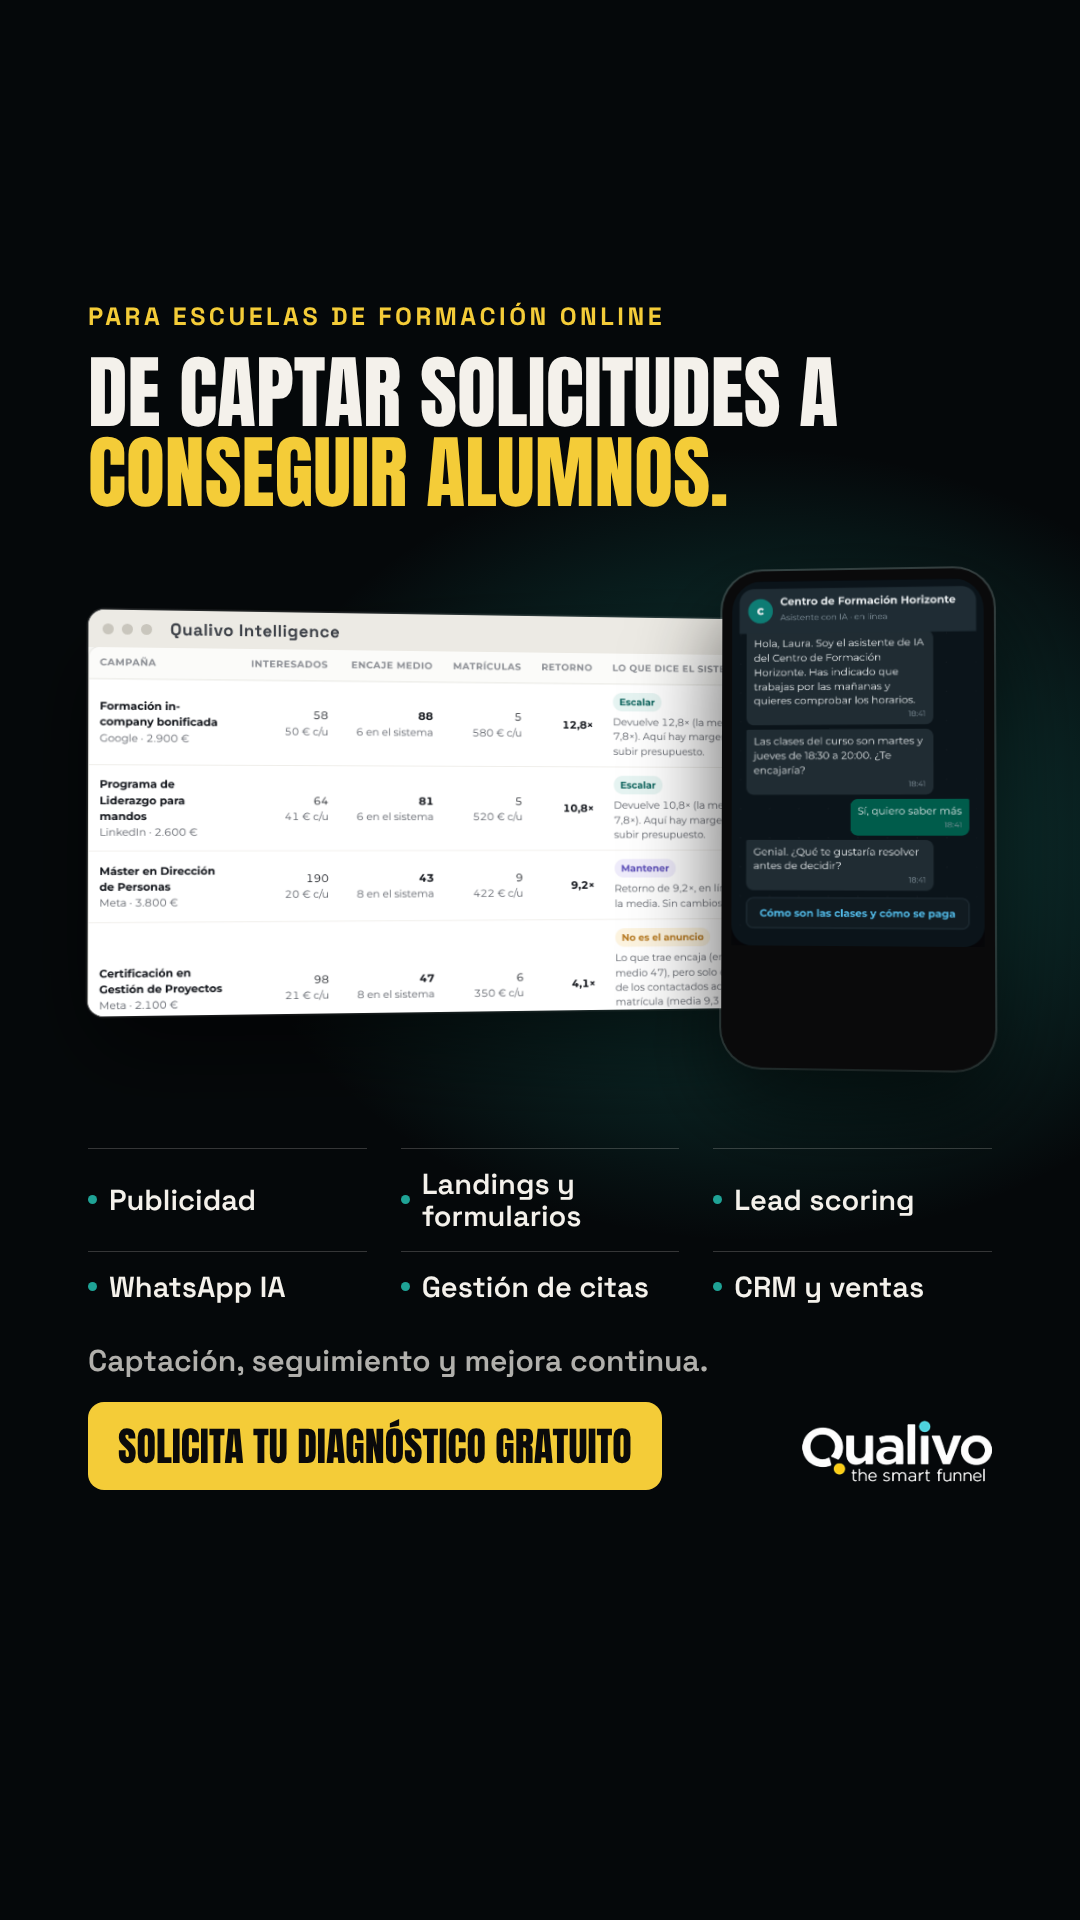
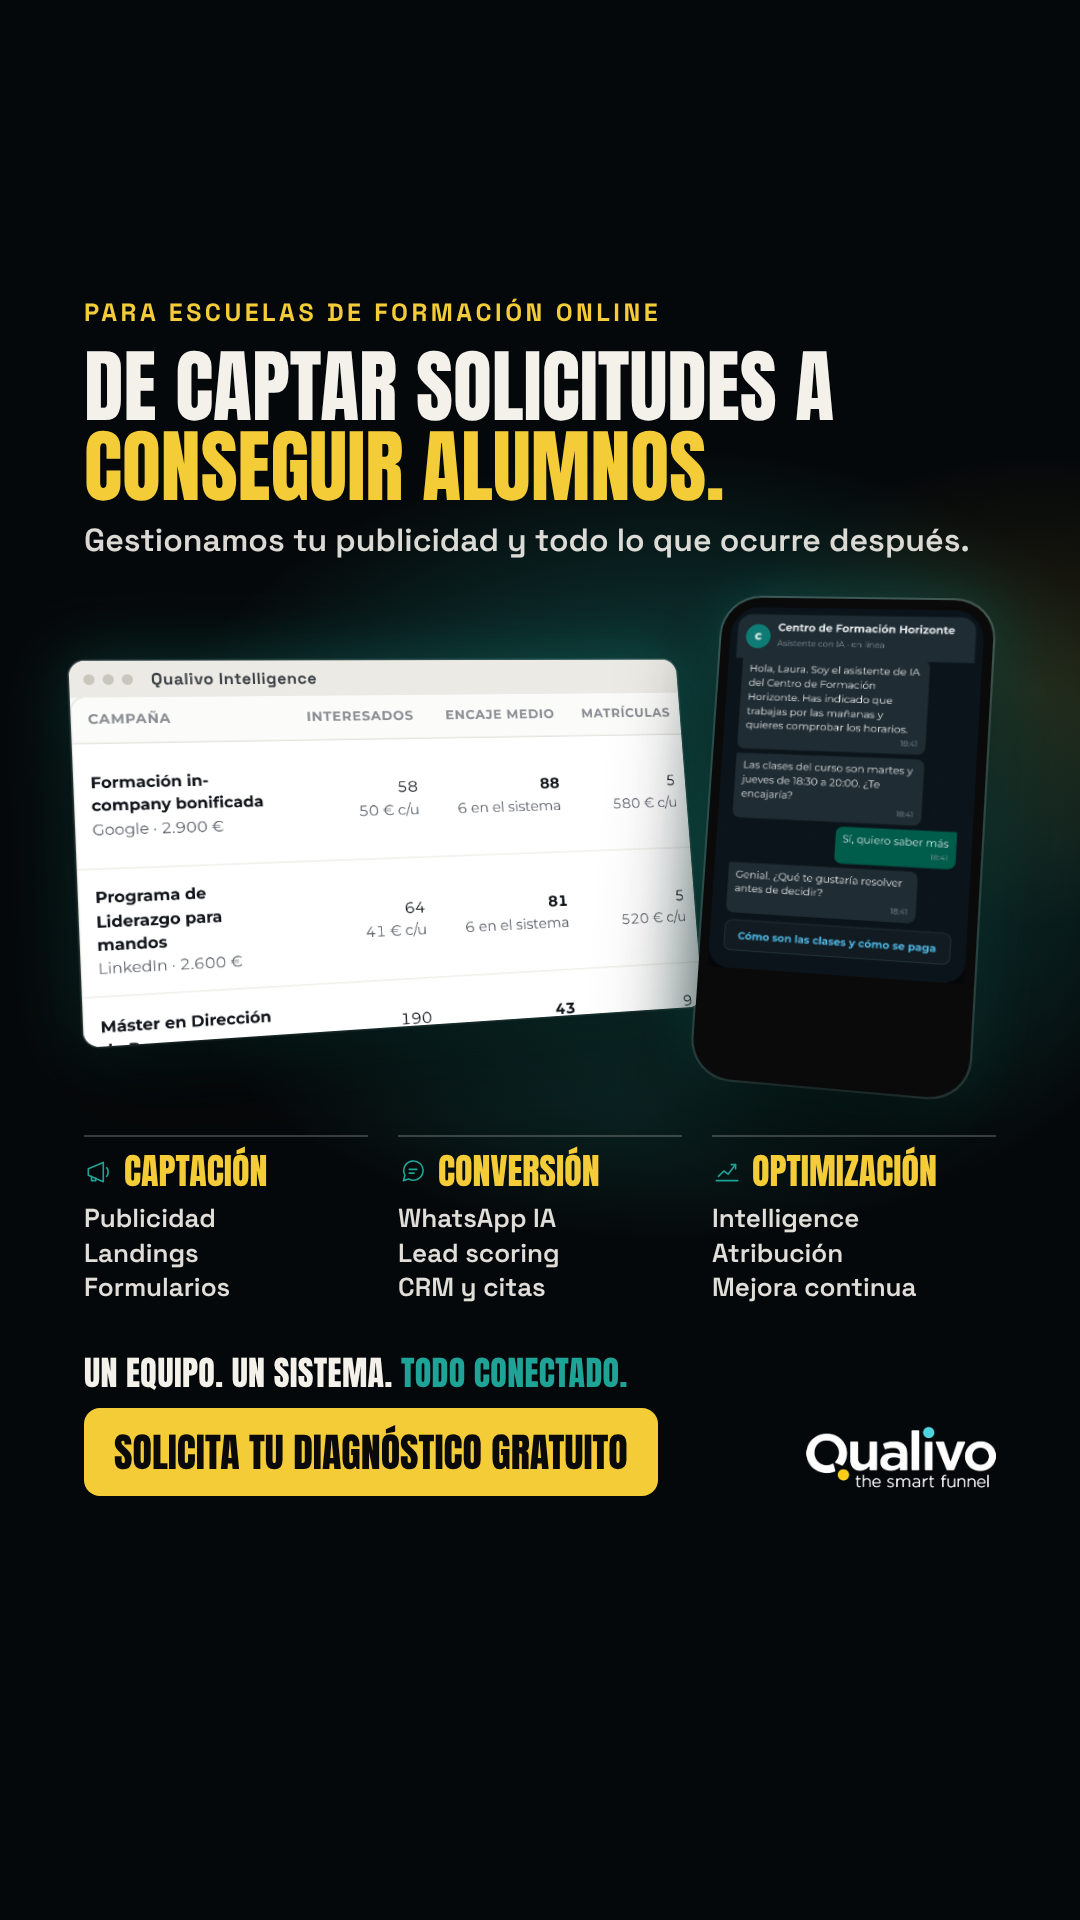
Batería de Formación: «Sistema completo» con tres niveles de lectura (subtítulo, tres columnas y tabla sin retorno)
Claude-Session: https://claude.ai/code/session_01MkLw18JtVaTcJ5wUw6JLih

diff --git a/content/anuncios/2026-11-24-bateria-formacion/final.html b/content/anuncios/2026-11-24-bateria-formacion/final.html
@@ -1,36 +1,46 @@
 <!doctype html><html lang="es"><head><meta charset="utf-8">
-<!-- «Sistema completo» · versión con aire (24-nov, noche), sobre la propuesta oscura elegida por Maikel · final.html#45 | #916
-     Las interfaces son pantallas reales de Qualivo Intelligence y del asistente de WhatsApp con datos ilustrativos del entorno de demostración. -->
+<!-- «Sistema completo» · versión con tres niveles de lectura (24-nov, noche) · final.html#45 | #916
+     Las interfaces son pantallas reales de Qualivo Intelligence y del asistente de WhatsApp con datos ilustrativos del entorno de demostración;
+     la tabla de campañas va recortada, sin las columnas de retorno. -->
 <style>
 @font-face{font-family:Anton;src:url(../2026-09-11-v2/fuentes/anton.ttf) format('truetype')}
 @font-face{font-family:SG;src:url(../2026-09-11-v2/fuentes/spacegrotesk.woff2) format('woff2');font-weight:300 700}
 *{box-sizing:border-box;margin:0;padding:0}html,body{background:#333}
-#e{position:relative;width:1080px;height:1350px;overflow:hidden;font-family:SG,sans-serif;background:#05080A;color:#F4F1EB;padding:84px 88px 78px;display:flex;flex-direction:column}
-#e.f916{height:1920px;padding:300px 88px 430px}
-#e::before{content:"";position:absolute;inset:0;background:radial-gradient(820px 620px at 70% 44%,rgba(31,163,150,.42),transparent 64%)}
+#e{position:relative;width:1080px;height:1350px;overflow:hidden;font-family:SG,sans-serif;background:#05080A;color:#F4F1EB;padding:74px 84px 66px;display:flex;flex-direction:column}
+#e.f916{height:1920px;padding:296px 84px 424px}
+#e::before{content:"";position:absolute;inset:0;background:radial-gradient(760px 520px at 62% 41%,rgba(31,163,150,.5),transparent 66%),radial-gradient(520px 380px at 96% 30%,rgba(244,204,56,.13),transparent 62%)}
+.f916::before{background:radial-gradient(820px 600px at 62% 44%,rgba(31,163,150,.5),transparent 66%),radial-gradient(520px 380px at 96% 36%,rgba(244,204,56,.13),transparent 62%)!important}
 #e>*{position:relative}
 .id{font-weight:700;font-size:25px;letter-spacing:.14em;text-transform:uppercase;color:#F4CC38}
-h1{font-family:Anton;font-weight:400;font-size:80px;line-height:1;text-transform:uppercase;margin-top:20px}h1 em{font-style:normal;color:#F4CC38}
-.esc{height:440px;margin-top:44px;perspective:2200px}.f916 .esc{height:520px;margin-top:56px}
-.win{position:absolute;left:0;top:26px;width:690px;height:338px;border-radius:16px;overflow:hidden;background:#fff;box-shadow:0 40px 90px rgba(0,0,0,.6),0 0 0 1.5px rgba(255,255,255,.16);transform:rotateY(9deg) rotateX(3deg);transform-origin:0 50%}
-.f916 .win{top:40px;height:408px;width:700px}
+h1{font-family:Anton;font-weight:400;font-size:80px;line-height:1;text-transform:uppercase;margin-top:18px}h1 em{font-style:normal;color:#F4CC38}
+.sub{font-weight:600;font-size:32px;line-height:1.15;margin-top:16px;color:rgba(244,241,235,.9)}
+.esc{height:446px;margin-top:34px;perspective:1700px}.f916 .esc{height:470px;margin-top:54px}
+.win{position:absolute;left:-8px;top:34px;width:668px;height:384px;border-radius:16px;overflow:hidden;background:#fff;box-shadow:0 46px 90px rgba(0,0,0,.62),0 0 70px rgba(31,163,150,.32),0 0 0 1.5px rgba(255,255,255,.2);transform:rotateY(17deg) rotateX(7deg) rotateZ(-2deg);transform-origin:0 50%}
+.f916 .win{width:660px;height:390px;top:44px}
 .win .bar{height:38px;background:#ECEAE4;display:flex;align-items:center;gap:8px;padding:0 14px}.win .bar i{width:11px;height:11px;border-radius:50%;background:#C9C6BD;display:block}
 .win .bar b{margin-left:10px;font-size:17px;font-weight:700;color:#3D4148;letter-spacing:.03em}.win img{display:block;width:100%}
-.tel{position:absolute;right:0;top:0;width:236px;height:432px;border-radius:40px;background:#0A0A0B;padding:10px;box-shadow:0 40px 90px rgba(0,0,0,.65),0 0 0 2px rgba(255,255,255,.2);transform:rotateY(-8deg) rotateX(3deg)}
-.f916 .tel{width:270px;height:500px}
-.tel div{border-radius:31px;overflow:hidden;height:100%}.tel img{display:block;width:100%}
-.ser{display:grid;grid-template-columns:repeat(3,1fr);column-gap:34px;margin-top:46px}.f916 .ser{margin-top:60px}
-.ser span{display:flex;align-items:center;gap:12px;font-weight:600;font-size:29px;line-height:1.1;padding:19px 0;border-top:1.5px solid rgba(244,241,235,.2)}
-.ser span i{flex:none;width:9px;height:9px;border-radius:50%;background:#1FA396;display:block}
-.cie{margin-top:auto;font-weight:600;font-size:30px;color:rgba(244,241,235,.72)}
-.pie{margin-top:22px;display:flex;align-items:center;justify-content:space-between}
+.tel{position:absolute;right:18px;top:-6px;width:246px;height:446px;border-radius:38px;background:#0A0A0B;padding:9px;box-shadow:0 46px 90px rgba(0,0,0,.7),0 0 60px rgba(31,163,150,.3),0 0 0 2px rgba(255,255,255,.24);transform:rotateY(-15deg) rotateX(6deg) rotateZ(3deg) translateZ(60px)}
+.f916 .tel{width:262px;height:476px;top:-4px}
+.tel div{border-radius:30px;overflow:hidden;height:100%}.tel img{display:block;width:100%}
+.col{display:grid;grid-template-columns:repeat(3,1fr);column-gap:30px;margin-top:38px}.f916 .col{margin-top:52px}
+.col div{border-top:2px solid rgba(244,241,235,.22);padding-top:16px}
+.col h2{display:flex;align-items:center;gap:10px;font-family:Anton;font-weight:400;font-size:36px;line-height:1;text-transform:uppercase;color:#F4CC38;margin-bottom:12px}
+.col h2 svg{width:30px;height:30px;stroke:#1FA396;fill:none;stroke-width:3;stroke-linecap:round;stroke-linejoin:round;flex:none}
+.col p{font-weight:600;font-size:26px;line-height:1.34;color:rgba(244,241,235,.92)}
+.cie{margin-top:auto;font-family:Anton;font-size:34px;line-height:1;text-transform:uppercase;letter-spacing:.01em}.cie em{font-style:normal;color:#1FA396}
+.pie{margin-top:18px;display:flex;align-items:center;justify-content:space-between}
 .cta{font-family:Anton;font-size:40px;line-height:1;text-transform:uppercase;padding:24px 30px;border-radius:16px;background:#F4CC38;color:#0A0A0B}
 .lg{width:190px}
 </style></head><body><div id="e">
  <div class="id">Para escuelas de formación online</div>
  <h1>De captar solicitudes a <em>conseguir alumnos.</em></h1>
- <div class="esc"><div class="win"><div class="bar"><i></i><i></i><i></i><b>Qualivo Intelligence</b></div><img src="cap/anuncios.png"></div><div class="tel"><div><img src="cap/whatsapp.png"></div></div></div>
- <div class="ser"><span><i></i>Publicidad</span><span><i></i>Landings y formularios</span><span><i></i>Lead scoring</span><span><i></i>WhatsApp IA</span><span><i></i>Gestión de citas</span><span><i></i>CRM y ventas</span></div>
- <div class="cie">Captación, seguimiento y mejora continua.</div>
+ <div class="sub">Gestionamos tu publicidad y todo lo que ocurre después.</div>
+ <div class="esc"><div class="win"><div class="bar"><i></i><i></i><i></i><b>Qualivo Intelligence</b></div><img src="cap/campanas-sin-retorno.png"></div><div class="tel"><div><img src="cap/whatsapp.png"></div></div></div>
+ <div class="col">
+  <div><h2><svg viewBox="0 0 56 56"><path d="M8 36V24l28-12v36L8 36z"/><path d="M14 38v8h8v-5"/><path d="M42 22c4 2 4 14 0 16"/></svg>Captación</h2><p>Publicidad<br>Landings<br>Formularios</p></div>
+  <div><h2><svg viewBox="0 0 56 56"><path d="M10 46l3-10a18 18 0 1 1 7 7z"/><path d="M21 25h14M21 32h9"/></svg>Conversión</h2><p>WhatsApp IA<br>Lead scoring<br>CRM y citas</p></div>
+  <div><h2><svg viewBox="0 0 56 56"><path d="M8 46h40"/><path d="M12 38l10-10 8 6 14-18"/><path d="M36 16h8v8"/></svg>Optimización</h2><p>Intelligence<br>Atribución<br>Mejora continua</p></div>
+ </div>
+ <div class="cie">Un equipo. Un sistema. <em>Todo conectado.</em></div>
  <div class="pie"><div class="cta">Solicita tu diagnóstico gratuito</div><img class="lg" src="../../video/2026-09-17-sistema/rec/logo-blanco.png"></div>
 </div><script>document.getElementById('e').className='f'+(location.hash.slice(1)||'45')</script></body></html>

diff --git a/content/anuncios/2026-11-24-bateria-formacion/render-final.js b/content/anuncios/2026-11-24-bateria-formacion/render-final.js
@@ -2,5 +2,5 @@
 const {chromium}=require('playwright');
 (async()=>{const b=await chromium.launch();for(const f of ['45','916']){const p=await b.newPage({viewport:{width:1080,height:f==='45'?1350:1920}});
  await p.goto('file://'+__dirname+'/final.html#'+f,{waitUntil:'networkidle'});await p.evaluate(()=>document.fonts.ready);
- const o=await p.evaluate(f=>{const lo=f==='916'?285:20,hi=f==='916'?1525:1330;return [...document.querySelectorAll('.id,h1,.esc,.ser,.cie,.cta,.lg')].map(c=>[c.className||c.tagName,c.getBoundingClientRect()]).filter(([n,q])=>q.top<lo||q.bottom>hi||q.right>1060).map(([n,q])=>n+' '+Math.round(q.top)+'-'+Math.round(q.bottom))},f);
+ const o=await p.evaluate(f=>{const lo=f==='916'?285:20,hi=f==='916'?1525:1330;return [...document.querySelectorAll('.id,h1,.sub,.col,.cie,.cta,.lg')].map(c=>[c.className||c.tagName,c.getBoundingClientRect()]).filter(([n,q])=>q.top<lo||q.bottom>hi||q.right>1060).map(([n,q])=>n+' '+Math.round(q.top)+'-'+Math.round(q.bottom))},f);
  await (await p.$('#e')).screenshot({path:`${__dirname}/png/sistema-completo-FINAL-${f}.png`});console.log(f,o.length?'⚠ '+o.join(' | '):'ok');await p.close();}await b.close();})();

diff --git a/content/anuncios/2026-11-24-bateria-formacion/entrega-final.md b/content/anuncios/2026-11-24-bateria-formacion/entrega-final.md
@@ -158,3 +158,14 @@ Maikel: «el problema no es la cantidad de funcionalidades, sino cómo están di
 - Sin subtítulo. Los servicios, en una rejilla de 3 × 2 con líneas finas: Publicidad · Landings y formularios · Lead scoring · WhatsApp IA · Gestión de citas · CRM y ventas. Intelligence no va en la rejilla porque es la pantalla principal, con su nombre en la barra de la ventana.
 - Cierre «Captación, seguimiento y mejora continua.» y botón algo más pequeño (40 px).
 - La versión anterior, más cargada, está en el commit 3c227d1a.
+
+### Tres niveles de lectura (24-nov, noche) · versión vigente
+
+Maikel separa los papeles: el estático vende toda la propuesta de valor y el vídeo despierta curiosidad enseñando el sistema. Para el estático (`png/sistema-completo-FINAL-45.png` y `-916.png`):
+
+- **Un segundo:** «Para escuelas de formación online».
+- **Tres segundos:** «De captar solicitudes a conseguir alumnos.» y «Gestionamos tu publicidad y todo lo que ocurre después.»
+- **Cinco segundos:** tres columnas con un icono discreto cada una: Captación (Publicidad, Landings, Formularios) · Conversión (WhatsApp IA, Lead scoring, CRM y citas) · Optimización (Intelligence, Atribución, Mejora continua).
+- **Interfaces:** la ventana de Qualivo Intelligence y el móvil del asistente de WhatsApp, con más perspectiva y un halo turquesa. La tabla de campañas va recortada (`cap/campanas-sin-retorno.png`): no se ven las columnas «Retorno» ni «Lo que dice el sistema». Quedan a la vista interesados, encaje y matrículas de ejemplo, y los nombres «Google» y «LinkedIn» de las campañas de demostración.
+- **Cierre:** «Un equipo. Un sistema. Todo conectado.» · botón «Solicita tu diagnóstico gratuito» · logo. Sin etiquetas flotantes ni tarjetas.
+- **Reparto en Meta que plantea Maikel (30 €/día, tres activos como máximo):** vídeo antiguo, V7 y este estático; la demo corta, en reserva. No se toca nada sin su autorización expresa.
